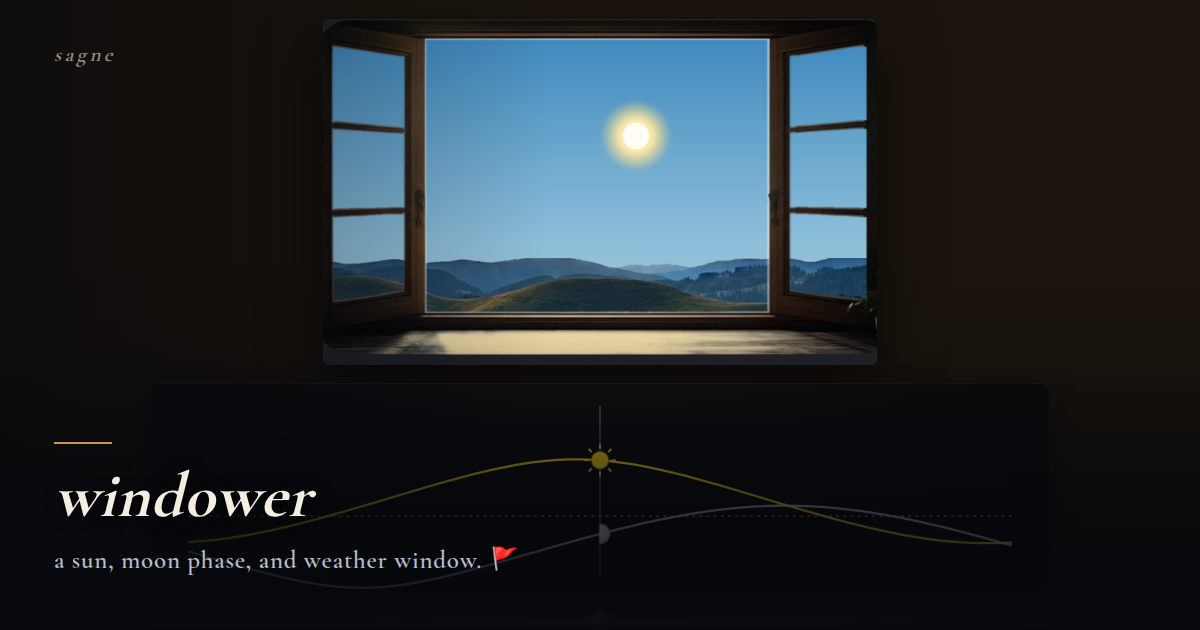
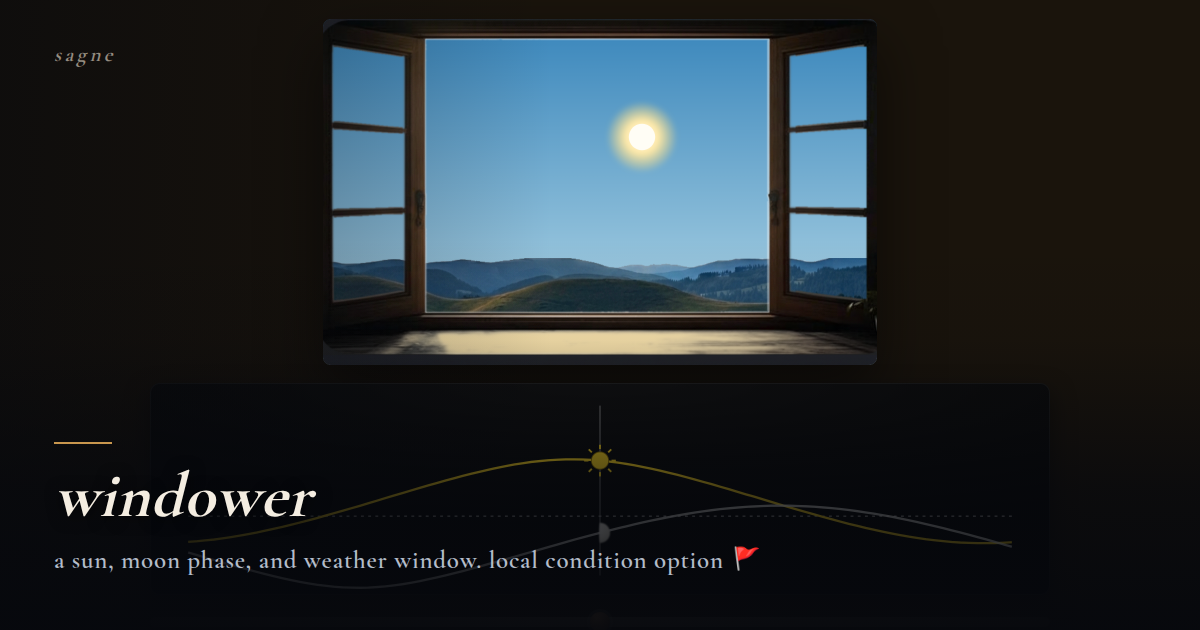
the seven location pieces say so on their cards
Her phrase: 'local condition option', with the flag after it. It goes in
the page's description tags as well as on the picture; the flag stays on
the picture only, since an emoji under a search result reads as clutter.

She noted the stretch herself: pendulum takes a latitude rather than a
condition. Her call to live with it.

Claude-Session: https://claude.ai/code/session_01FZLRpZBybpYSYBaQU5zBZo

diff --git a/windower/index.html b/windower/index.html
@@ -8,20 +8,20 @@
 <link rel="manifest" href="../manifest.json">
 <link rel="apple-touch-icon" href="../apple-touch-icon.png">
 <meta name="apple-mobile-web-app-capable" content="yes">
-<meta name="description" content="a sun, moon phase, and weather window.">
+<meta name="description" content="a sun, moon phase, and weather window. local condition option">
 <meta name="theme-color" content="#0e1c30">
 <link rel="canonical" href="https://sagne.co.uk/windower/">
 <meta property="og:type" content="website">
 <meta property="og:site_name" content="sagne">
 <meta property="og:title" content="windower — sagne">
-<meta property="og:description" content="a sun, moon phase, and weather window.">
+<meta property="og:description" content="a sun, moon phase, and weather window. local condition option">
 <meta property="og:url" content="https://sagne.co.uk/windower/">
 <meta property="og:image" content="https://sagne.co.uk/og/windower.png">
 <meta property="og:image:width" content="1200">
 <meta property="og:image:height" content="630">
 <meta name="twitter:card" content="summary_large_image">
 <meta name="twitter:title" content="windower — sagne">
-<meta name="twitter:description" content="a sun, moon phase, and weather window.">
+<meta name="twitter:description" content="a sun, moon phase, and weather window. local condition option">
 <meta name="twitter:image" content="https://sagne.co.uk/og/windower.png">
 <style>
   @import url('https://fonts.googleapis.com/css2?family=Spectral:ital,wght@0,400;0,500;1,400&family=Cormorant+Garamond:wght@500;600&display=swap');

diff --git a/fireflies/index.html b/fireflies/index.html
@@ -5,20 +5,20 @@
 <meta name="viewport" content="width=device-width, initial-scale=1.0, maximum-scale=1.0, user-scalable=no">
 <title>fireflies — sagne</title>
 <link rel="icon" type="image/svg+xml" href="../favicon.svg">
-<meta name="description" content="fireflies behavior after sunset into night.">
+<meta name="description" content="fireflies behavior after sunset into night. local condition option">
 <meta name="theme-color" content="#0e1c30">
 <link rel="canonical" href="https://sagne.co.uk/fireflies/">
 <meta property="og:type" content="website">
 <meta property="og:site_name" content="sagne">
 <meta property="og:title" content="fireflies — sagne">
-<meta property="og:description" content="fireflies behavior after sunset into night.">
+<meta property="og:description" content="fireflies behavior after sunset into night. local condition option">
 <meta property="og:url" content="https://sagne.co.uk/fireflies/">
 <meta property="og:image" content="https://sagne.co.uk/og/fireflies.png">
 <meta property="og:image:width" content="1200">
 <meta property="og:image:height" content="630">
 <meta name="twitter:card" content="summary_large_image">
 <meta name="twitter:title" content="fireflies — sagne">
-<meta name="twitter:description" content="fireflies behavior after sunset into night.">
+<meta name="twitter:description" content="fireflies behavior after sunset into night. local condition option">
 <meta name="twitter:image" content="https://sagne.co.uk/og/fireflies.png">
 <style>
   :root{ --brass:#c9974e; --parchment:#f2e9d8; }

diff --git a/conometer/index.html b/conometer/index.html
@@ -8,20 +8,20 @@
 <link rel="manifest" href="../manifest.json">
 <link rel="apple-touch-icon" href="../apple-touch-icon.png">
 <meta name="apple-mobile-web-app-capable" content="yes">
-<meta name="description" content="a pinecone responding to humidity.">
+<meta name="description" content="a pinecone responding to humidity. local condition option">
 <meta name="theme-color" content="#0e1c30">
 <link rel="canonical" href="https://sagne.co.uk/conometer/">
 <meta property="og:type" content="website">
 <meta property="og:site_name" content="sagne">
 <meta property="og:title" content="conometer — sagne">
-<meta property="og:description" content="a pinecone responding to humidity.">
+<meta property="og:description" content="a pinecone responding to humidity. local condition option">
 <meta property="og:url" content="https://sagne.co.uk/conometer/">
 <meta property="og:image" content="https://sagne.co.uk/og/conometer.png">
 <meta property="og:image:width" content="1200">
 <meta property="og:image:height" content="630">
 <meta name="twitter:card" content="summary_large_image">
 <meta name="twitter:title" content="conometer — sagne">
-<meta name="twitter:description" content="a pinecone responding to humidity.">
+<meta name="twitter:description" content="a pinecone responding to humidity. local condition option">
 <meta name="twitter:image" content="https://sagne.co.uk/og/conometer.png">
 <style>
   @import url('https://fonts.googleapis.com/css2?family=Cormorant+Garamond:wght@500;600&family=Jost:wght@300;400&display=swap');

diff --git a/storm/index.html b/storm/index.html
@@ -5,20 +5,20 @@
 <meta name="viewport" content="width=device-width, initial-scale=1.0, maximum-scale=1.0, user-scalable=no">
 <title>storm — sagne</title>
 <link rel="icon" type="image/svg+xml" href="../favicon.svg">
-<meta name="description" content="a storm glass barometer representation.">
+<meta name="description" content="a storm glass barometer representation. local condition option">
 <meta name="theme-color" content="#0e1c30">
 <link rel="canonical" href="https://sagne.co.uk/storm/">
 <meta property="og:type" content="website">
 <meta property="og:site_name" content="sagne">
 <meta property="og:title" content="storm — sagne">
-<meta property="og:description" content="a storm glass barometer representation.">
+<meta property="og:description" content="a storm glass barometer representation. local condition option">
 <meta property="og:url" content="https://sagne.co.uk/storm/">
 <meta property="og:image" content="https://sagne.co.uk/og/storm.png">
 <meta property="og:image:width" content="1200">
 <meta property="og:image:height" content="630">
 <meta name="twitter:card" content="summary_large_image">
 <meta name="twitter:title" content="storm — sagne">
-<meta name="twitter:description" content="a storm glass barometer representation.">
+<meta name="twitter:description" content="a storm glass barometer representation. local condition option">
 <meta name="twitter:image" content="https://sagne.co.uk/og/storm.png">
 <style>
   *{box-sizing:border-box; -webkit-tap-highlight-color:transparent;}

diff --git a/galileo/index.html b/galileo/index.html
@@ -8,20 +8,20 @@
 <link rel="manifest" href="../manifest.json">
 <link rel="apple-touch-icon" href="../apple-touch-icon.png">
 <meta name="apple-mobile-web-app-capable" content="yes">
-<meta name="description" content="a galileo thermometer.">
+<meta name="description" content="a galileo thermometer. local condition option">
 <meta name="theme-color" content="#0e1c30">
 <link rel="canonical" href="https://sagne.co.uk/galileo/">
 <meta property="og:type" content="website">
 <meta property="og:site_name" content="sagne">
 <meta property="og:title" content="galileo — sagne">
-<meta property="og:description" content="a galileo thermometer.">
+<meta property="og:description" content="a galileo thermometer. local condition option">
 <meta property="og:url" content="https://sagne.co.uk/galileo/">
 <meta property="og:image" content="https://sagne.co.uk/og/galileo.png">
 <meta property="og:image:width" content="1200">
 <meta property="og:image:height" content="630">
 <meta name="twitter:card" content="summary_large_image">
 <meta name="twitter:title" content="galileo — sagne">
-<meta name="twitter:description" content="a galileo thermometer.">
+<meta name="twitter:description" content="a galileo thermometer. local condition option">
 <meta name="twitter:image" content="https://sagne.co.uk/og/galileo.png">
 <style>
   @import url('https://fonts.googleapis.com/css2?family=Cormorant+Garamond:wght@500;600&family=Jost:wght@300;400&display=swap');

diff --git a/chimes/index.html b/chimes/index.html
@@ -8,20 +8,20 @@
 <link rel="manifest" href="../manifest.json">
 <link rel="apple-touch-icon" href="../apple-touch-icon.png">
 <meta name="apple-mobile-web-app-capable" content="yes">
-<meta name="description" content="wind chimes, create and adjust.">
+<meta name="description" content="wind chimes, create and adjust. local condition option">
 <meta name="theme-color" content="#141c2c">
 <link rel="canonical" href="https://sagne.co.uk/chimes/">
 <meta property="og:type" content="website">
 <meta property="og:site_name" content="sagne">
 <meta property="og:title" content="chimes — sagne">
-<meta property="og:description" content="wind chimes, create and adjust.">
+<meta property="og:description" content="wind chimes, create and adjust. local condition option">
 <meta property="og:url" content="https://sagne.co.uk/chimes/">
 <meta property="og:image" content="https://sagne.co.uk/og/chimes.png">
 <meta property="og:image:width" content="1200">
 <meta property="og:image:height" content="630">
 <meta name="twitter:card" content="summary_large_image">
 <meta name="twitter:title" content="chimes — sagne">
-<meta name="twitter:description" content="wind chimes, create and adjust.">
+<meta name="twitter:description" content="wind chimes, create and adjust. local condition option">
 <meta name="twitter:image" content="https://sagne.co.uk/og/chimes.png">
 <style>
   :root{ --brass:#c9974e; --parchment:#f2e9d8; }

diff --git a/pendulum/index.html b/pendulum/index.html
@@ -8,20 +8,20 @@
 <link rel="manifest" href="../manifest.json">
 <link rel="apple-touch-icon" href="../apple-touch-icon.png">
 <meta name="apple-mobile-web-app-capable" content="yes">
-<meta name="description" content="a foucault pendulum.">
+<meta name="description" content="a foucault pendulum. local condition option">
 <meta name="theme-color" content="#0e1c30">
 <link rel="canonical" href="https://sagne.co.uk/pendulum/">
 <meta property="og:type" content="website">
 <meta property="og:site_name" content="sagne">
 <meta property="og:title" content="pendulum — sagne">
-<meta property="og:description" content="a foucault pendulum.">
+<meta property="og:description" content="a foucault pendulum. local condition option">
 <meta property="og:url" content="https://sagne.co.uk/pendulum/">
 <meta property="og:image" content="https://sagne.co.uk/og/pendulum.png">
 <meta property="og:image:width" content="1200">
 <meta property="og:image:height" content="630">
 <meta name="twitter:card" content="summary_large_image">
 <meta name="twitter:title" content="pendulum — sagne">
-<meta name="twitter:description" content="a foucault pendulum.">
+<meta name="twitter:description" content="a foucault pendulum. local condition option">
 <meta name="twitter:image" content="https://sagne.co.uk/og/pendulum.png">
 <style>
   *{box-sizing:border-box; -webkit-tap-highlight-color:transparent;}
